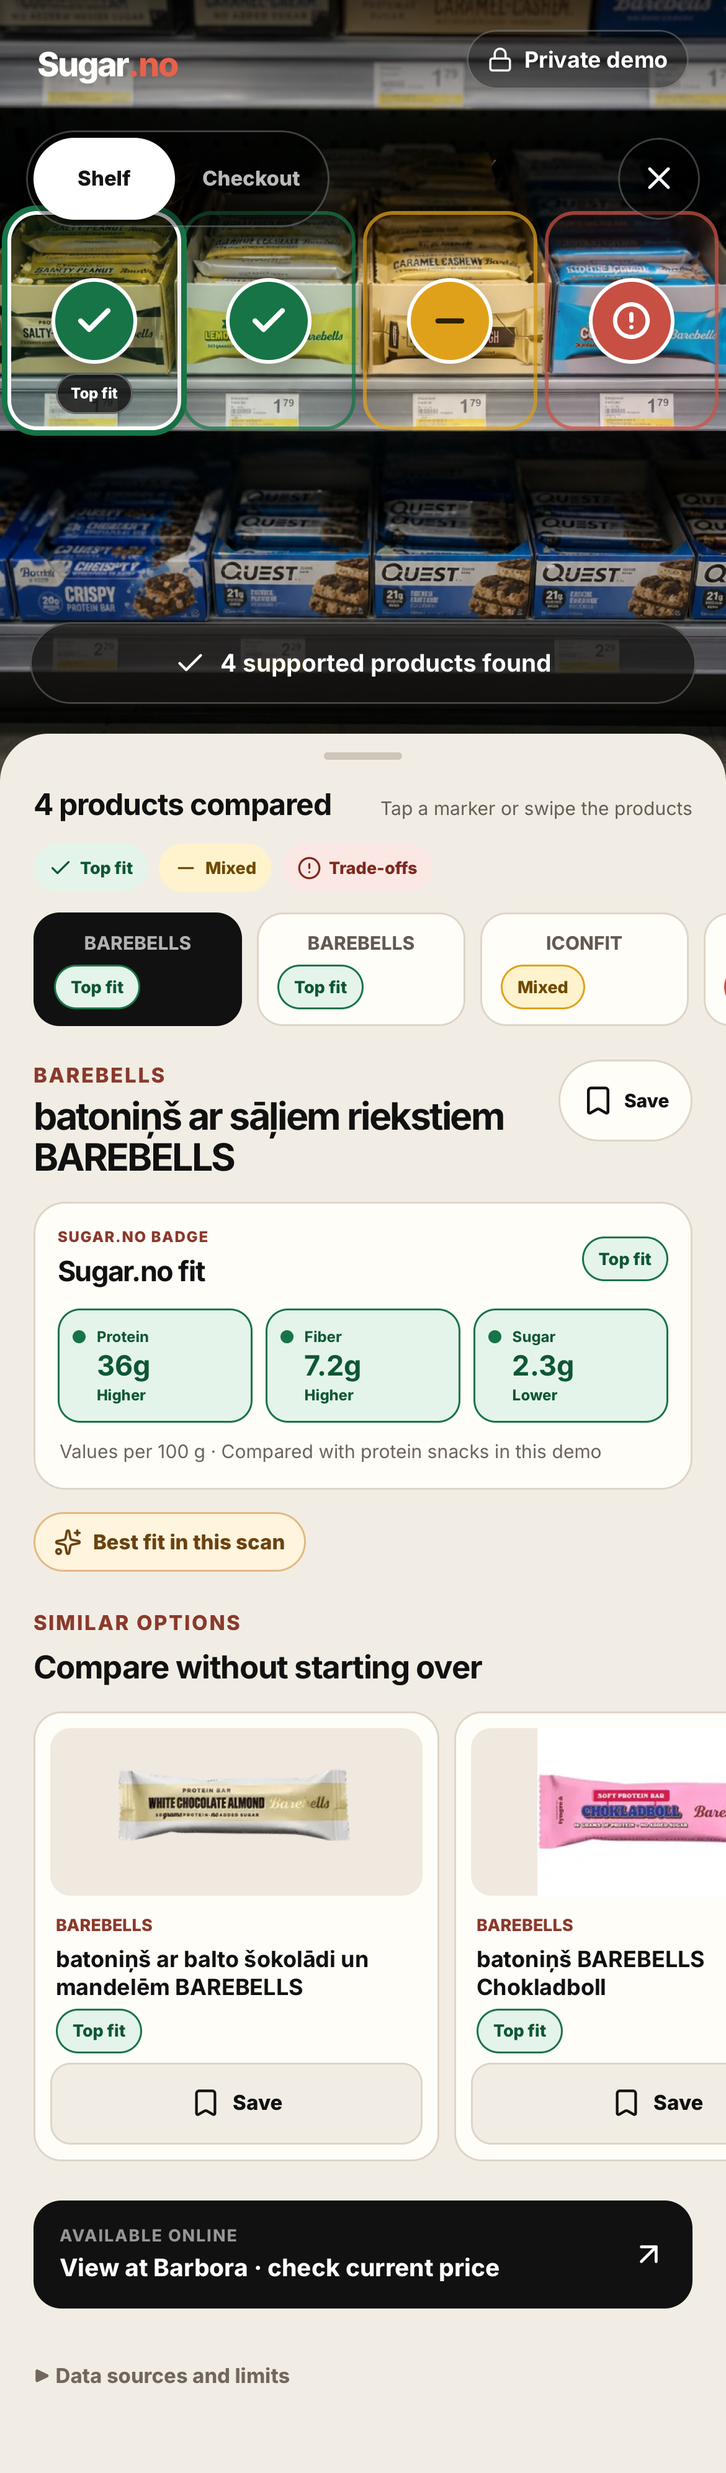
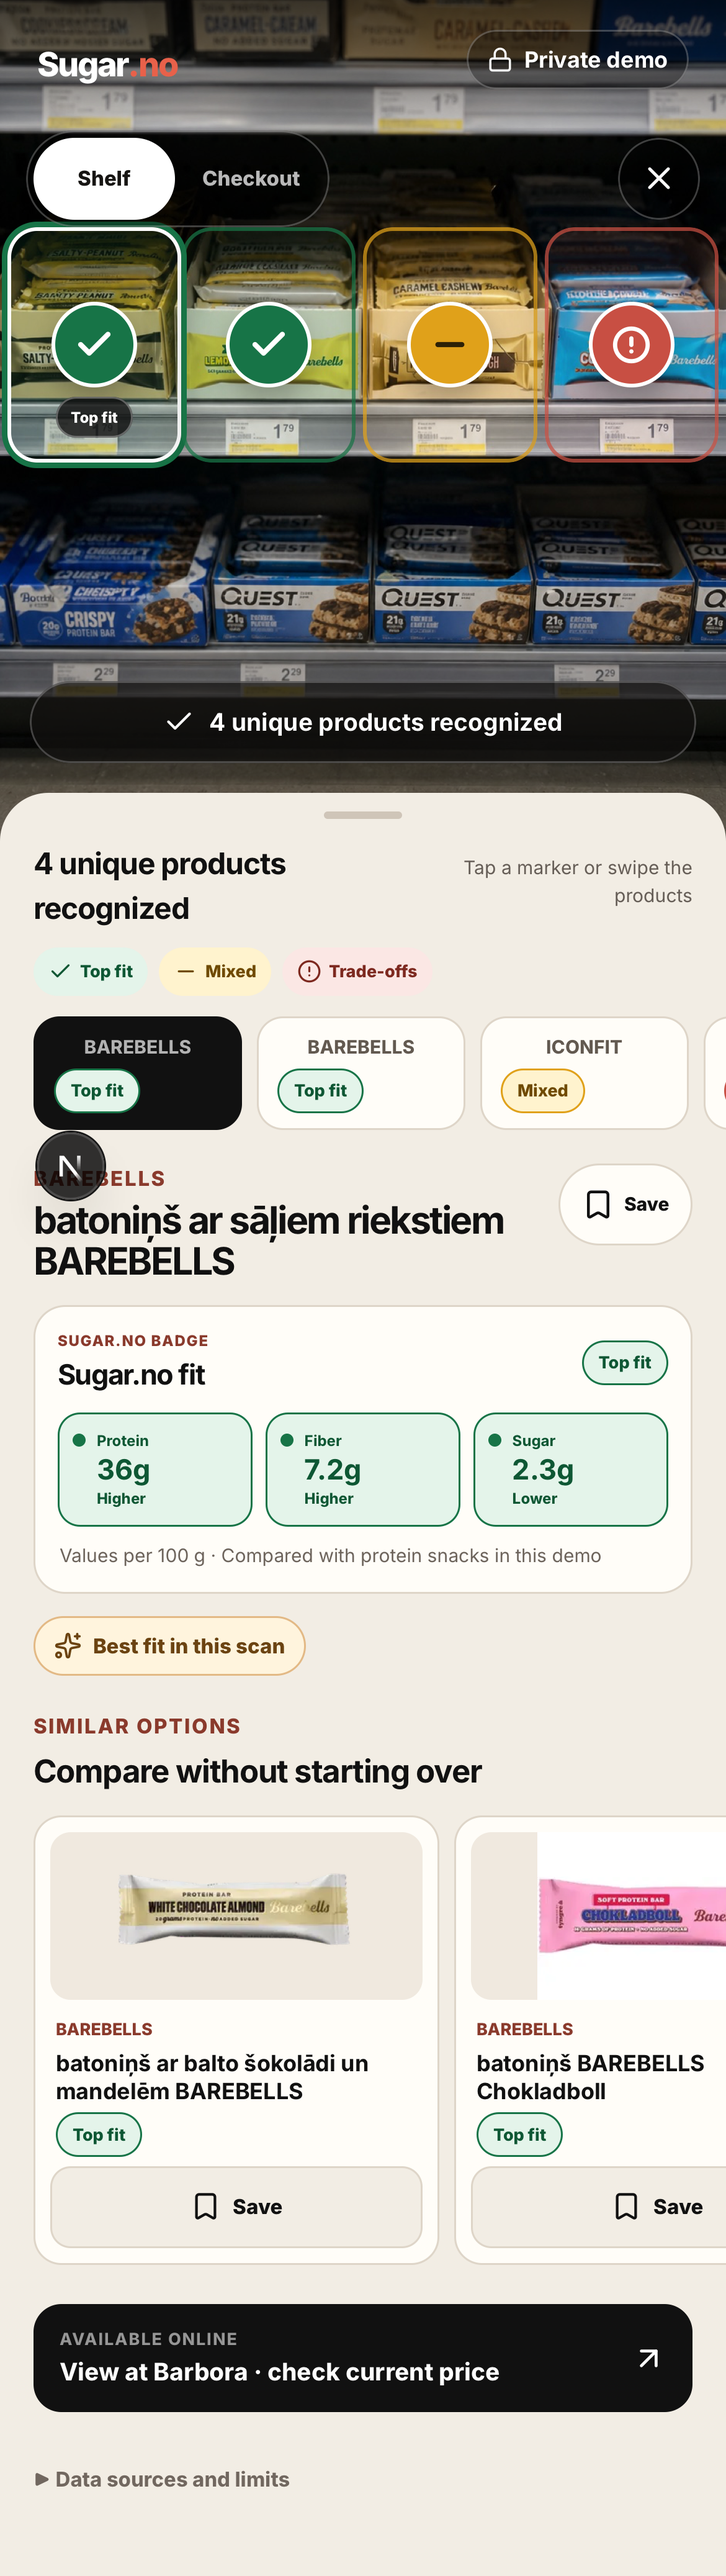
ui: enlarge mobile scanner stage

Changed region(s): [[0.0, 0.0, 1.0, 0.9649], [0.9231, 0.5914, 0.9538, 0.6225]]

diff --git a/tests/e2e/scanner.spec.ts b/tests/e2e/scanner.spec.ts
@@ -115,6 +115,9 @@ test("scanner remains operable at narrow portrait and phone landscape sizes", as
   await unlock(page);
   await page.getByRole("button", { name: /Shelf photo/ }).click();
   await expect(page.getByLabel("Sugar.no badge")).toBeVisible();
+  const portraitStage = page.getByLabel("Shelf photo scanner").locator(":scope > div").first();
+  const portraitStageBox = await portraitStage.boundingBox();
+  expect(portraitStageBox?.height).toBeGreaterThanOrEqual(812 * 0.66);
   expect(await page.evaluate(() => document.documentElement.scrollWidth <= window.innerWidth)).toBe(true);
 
   await page.setViewportSize({ width: 812, height: 375 });

diff --git a/src/components/scanner-app.module.css b/src/components/scanner-app.module.css
@@ -363,7 +363,7 @@
 .experience {
   display: grid;
   min-height: 100dvh;
-  grid-template-rows: minmax(420px, 62svh) 1fr;
+  grid-template-rows: clamp(430px, 68svh, 620px) 1fr;
 }
 
 .stage {

diff --git a/docs/product-qa.md b/docs/product-qa.md
@@ -21,16 +21,17 @@ Run this check on the deployed HTTPS URL using Safari on an iPhone. Use a privat
 2. Deny permission once. Confirm there is a clear explanation, a retry action and access to the sample path after closing.
 3. Allow permission in Safari settings, reopen the demo and point at a golden product image on another screen.
 4. Confirm scanning begins without a shutter button. Keep the package still and front-facing.
-5. Point at a clear product outside the 40 scored snacks. Confirm the app names the package, labels nutrition as unverified and does not invent a Sugar.no badge.
-6. Put several identical facings of one SKU in the frame. Confirm the status and tray count them as one unique product, not one product per package.
-7. After a successful live scan, move the phone. Confirm the captured frame and result stay fixed while being read. Tap `Scan again`, show a different product and confirm the old result is replaced rather than accumulated.
-8. With no physical shelf label in the frame, confirm no `Price check` card, retailer price or price prompt appears.
-9. Include the product and one clearly associated shelf label in the same frame. Confirm the camera price appears. If an exact Barbora match is cheaper, confirm only the shelf price is crossed out and the current online price plus check time are shown.
-10. Repeat with a non-exact retailer candidate. Confirm only the shelf price remains and there is no retailer link. A Coca-Cola result must never open Pepsi.
-11. Confirm `Top fit / Mixed / Trade-offs` appears only for products with complete verified nutrition. A generic Coca-Cola or Activia result should instead say `Identified, not rated`.
-12. Repeat with an ambiguous label or multiple nearby prices. Confirm Sugar.no hides the shelf price instead of guessing.
-13. Cover the lens or use poor light. Confirm the interface stays usable and does not invent nutrition.
-14. Turn on airplane mode. Confirm that the preview stays local and recognition pauses with an offline message.
+5. Confirm the camera occupies about half of the full iPhone display and feels visibly larger than the result area above the fold; the result sheet must remain reachable by ordinary vertical scroll.
+6. Point at a clear product outside the 40 scored snacks. Confirm the app names the package, labels nutrition as unverified and does not invent a Sugar.no badge.
+7. Put several identical facings of one SKU in the frame. Confirm the status and tray count them as one unique product, not one product per package.
+8. After a successful live scan, move the phone. Confirm the captured frame and result stay fixed while being read. Tap `Scan again`, show a different product and confirm the old result is replaced rather than accumulated.
+9. With no physical shelf label in the frame, confirm no `Price check` card, retailer price or price prompt appears.
+10. Include the product and one clearly associated shelf label in the same frame. Confirm the camera price appears. If an exact Barbora match is cheaper, confirm only the shelf price is crossed out and the current online price plus check time are shown.
+11. Repeat with a non-exact retailer candidate. Confirm only the shelf price remains and there is no retailer link. A Coca-Cola result must never open Pepsi.
+12. Confirm `Top fit / Mixed / Trade-offs` appears only for products with complete verified nutrition. A generic Coca-Cola or Activia result should instead say `Identified, not rated`.
+13. Repeat with an ambiguous label or multiple nearby prices. Confirm Sugar.no hides the shelf price instead of guessing.
+14. Cover the lens or use poor light. Confirm the interface stays usable and does not invent nutrition.
+15. Turn on airplane mode. Confirm that the preview stays local and recognition pauses with an offline message.
 
 ## Saved image and privacy
 

diff --git a/docs/acceptance.md b/docs/acceptance.md
@@ -8,6 +8,7 @@ Status reflects reproducible evidence in this repository, not the intended final
 | 40 Latvia SKUs | Generated catalog validation and unit test | Pass |
 | Broad Barbora discovery | Reproducible public-sitemap index contains 19,076 unique product slugs | Pass as index |
 | Product outside scored catalog | Generic identity is implemented; the Sanpellegrino screenshot resolves to an exact Barbora page while non-exact candidates remain unlinked | Pass as concept |
+| Camera occupies the primary viewport area | Portrait stage is clamped to 430–620 px and WebKit asserts at least 66% of a 375×812 browser viewport; landscape and tablet retain dedicated layouts | Pass locally |
 | Repeated facings count once | Server and client normalize same-SKU detections; unit test merges four Coca-Cola descriptions and live-camera WebKit test renders one unique product | Pass locally |
 | Live result remains readable | Successful camera recognition pauses the frame and requests until `Scan again`; WebKit test confirms no background replacement and then a clean new result | Pass locally |
 | Conflicting retailer brand | Coca-Cola/Pepsi brand regression is rejected before any offer is returned; possible matches have no UI link | Pass locally |

diff --git a/Bugs.md b/Bugs.md
@@ -13,6 +13,7 @@ This file is the running record of scanner defects found and resolved.
 
 ## Resolved
 
+- **2026-08-21: the camera area felt too small beside the result sheet.** The portrait scanner stage now uses roughly two thirds of the browser viewport, which keeps the camera close to half of the full iPhone display after Safari chrome and safe areas, while results continue below in the normal page scroll.
 - **2026-08-20: four facings of Coca-Cola were reported as four recognized products.** Recognition now groups detections by curated ID, exact retailer SKU or normalized brand/product identity and renders one union marker per unique product type.
 - **2026-08-20: a possible retailer match for Coca-Cola opened a Pepsi product page.** Retailer page candidates now fail closed on conflicting brands. Possible candidates are not exposed as links or price comparisons; only an exact SKU may open from a scan result.
 - **2026-08-20: live results accumulated stale products and changed while the user was reading.** A successful live scan now pauses the video frame and analysis, holds one stable result and offers a 46 px `Scan again` action that clears the previous result before resuming.

diff --git a/README.md b/README.md
@@ -18,7 +18,7 @@ The app is a working mobile-first web/PWA concept with:
 - 10 golden products with independently sourced fiber and a deterministic three-signal Sugar.no badge;
 - 30 catalog products that intentionally show `Data pending` until fiber is verified;
 - photorealistic concept scenes with compact green-check, yellow-minus and coral-alert markers placed over the detected packages;
-- a Checkit-inspired camera-first layout, selected-product focus and compact bottom sheet with a horizontally scrollable tray and similar options;
+- a Checkit-inspired camera-first layout with an enlarged, stable half-screen camera area, selected-product focus and compact bottom sheet with a horizontally scrollable tray and similar options;
 - normalized detection boxes, a de-duplicated checkout tray, similar options and exact Barbora product links;
 - camera-read shelf prices plus a live Barbora offer lookup with source time and fail-closed exact-SKU state;
 - same-SKU grouping so repeated facings such as four Coca-Cola cans count as one unique product;
